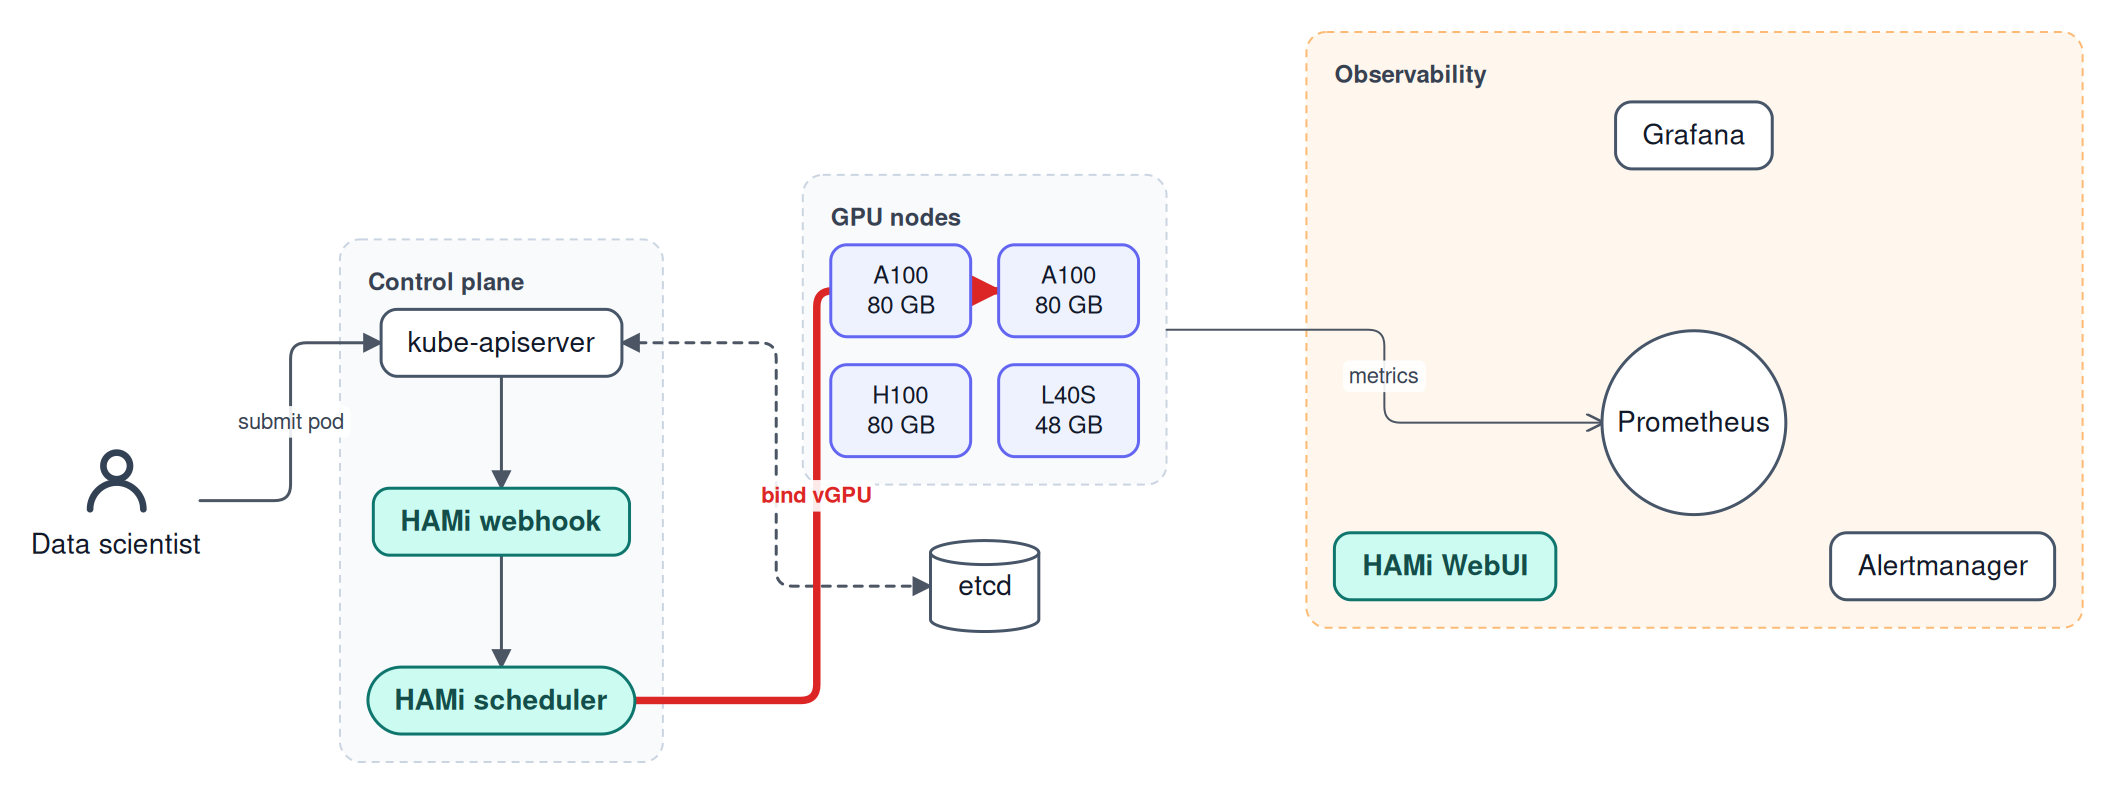
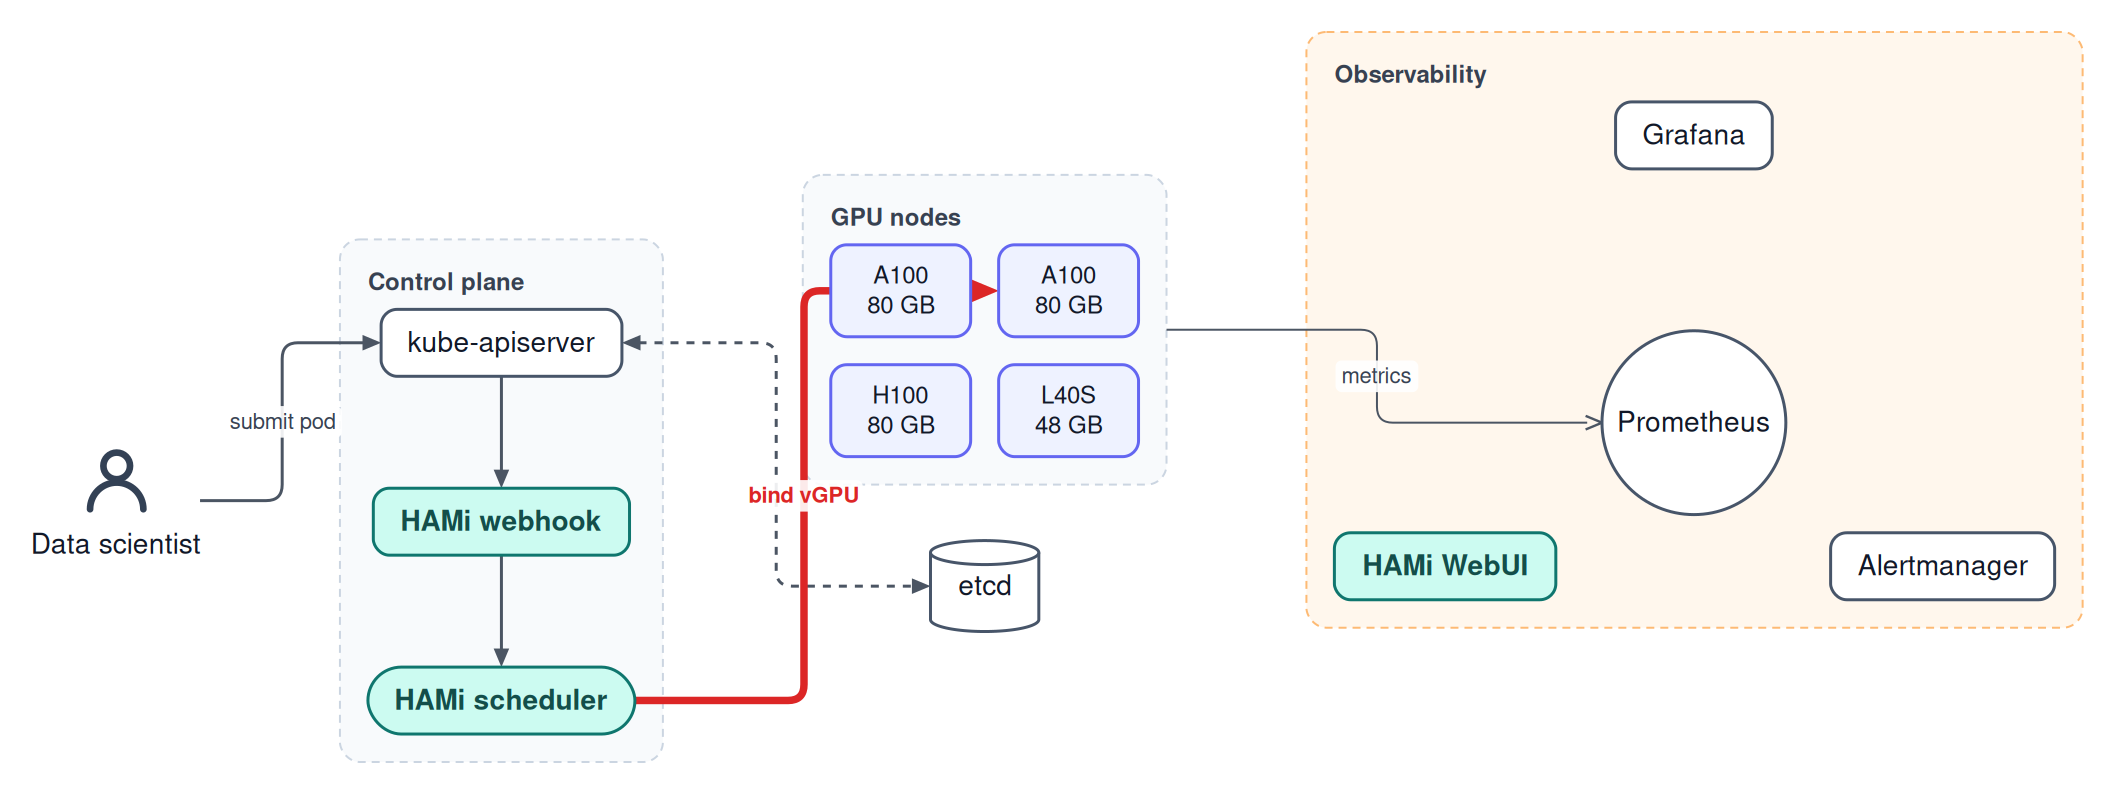
feat(edge): draw arrowheads as geometry with head-size

diff --git a/src/nodal/svg.py b/src/nodal/svg.py
@@ -193,26 +193,73 @@ class SvgRenderer:
         if "arrow" in st and "arrow" not in e.attrs and e.arrow == "end":
             arrow = st["arrow"]
         head = st.get("head", "triangle")
-        # shorten line under heads so the stroke doesn't poke through
-        s = max(1.0, 0.6 + width * 0.35)
         pts = list(pts)
+        tip_end, tip_start = pts[-1], pts[0]
+        # head length: explicit CSS/attr `head-size`, else grows gently with width (capped)
+        hl = px(st.get("head-size"), min(18.0, 6.0 + width * 2.2))
+        free = route == "straight" or flow_dir(lca(self.doc.items[e.src], self.doc.items[e.dst],
+                                                   self.doc.root)) == "auto"
+
+        def end_dir(tip, prev):
+            if free:
+                dx, dy = tip[0] - prev[0], tip[1] - prev[1]
+            elif axis == "v":
+                dx, dy = 0.0, tip[1] - prev[1]
+            else:
+                dx, dy = tip[0] - prev[0], 0.0
+            l = math.hypot(dx, dy) or 1.0
+            return dx / l, dy / l
+
+        heads = []
         if arrow in ("end", "both"):
-            pts[-1] = self._pull(pts[-1], pts[-2], 0)
+            d_end = end_dir(tip_end, pts[-2])
+            heads.append((tip_end, d_end))
+            # stop the stroke at the head's base so nothing pokes through the tip
+            pts[-1] = (tip_end[0] - d_end[0] * hl * 0.9, tip_end[1] - d_end[1] * hl * 0.9)
+        if arrow in ("start", "both"):
+            d_st = end_dir(tip_start, pts[1])
+            heads.append((tip_start, d_st))
+            pts[0] = (tip_start[0] - d_st[0] * hl * 0.9, tip_start[1] - d_st[1] * hl * 0.9)
         stub = px(st["stub"]) if "stub" in st else None
-        attrs = [f'd="{self.path_d(pts, axis, route, px(st.get("radius"), 12 if route == "bend" else 6), stub)}"', 'fill="none"', f'stroke="{color}"',
-                 f'stroke-width="{width:g}"', 'stroke-linecap="round"', 'stroke-linejoin="round"']
+        if stub is not None and heads:
+            stub += hl  # keep the bend clear of the head
+        radius = px(st.get("radius"), 12 if route == "bend" else 6)
+        cap = "butt" if heads else "round"
+        attrs = [f'd="{self.path_d(pts, axis, route, radius, stub)}"', 'fill="none"', f'stroke="{color}"',
+                 f'stroke-width="{width:g}"', f'stroke-linecap="{cap}"', 'stroke-linejoin="round"']
         if dash:
             attrs.append(f'stroke-dasharray="{dash}"')
-        if arrow in ("end", "both"):
-            attrs.append(f'marker-end="url(#{self.marker(head, color, width, False)})"')
-        if arrow in ("start", "both"):
-            attrs.append(f'marker-start="url(#{self.marker(head, color, width, True)})"')
-        _ = s
         cls = " ".join(["nodal-edge"] + e.classes)
         self.out.append(f'<g id="{e.id}" class="{cls}"><path {" ".join(attrs)}/>')
+        for tip, dvec in heads:
+            self.out.append(self.head_shape(head, tip, dvec, hl, color, width))
         if e.label:
             self.edge_label(e, pts)
         self.out.append("</g>")
+
+    @staticmethod
+    def head_shape(kind, tip, d, hl, color, width):
+        """Arrowhead as plain geometry: tip sits exactly on the target outline."""
+        tx, ty = tip
+        ux, uy = d
+        nx, ny = -uy, ux
+        hw = max(hl * 0.42, width * 1.2)
+
+        def P(a, b):  # a along -d from tip, b along normal
+            return f"{tx - ux * a + nx * b:.1f},{ty - uy * a + ny * b:.1f}"
+        if kind == "open":
+            return (f'<polyline class="nodal-head" points="{P(hl, hw)} {P(0, 0)} {P(hl, -hw)}" fill="none" '
+                    f'stroke="{color}" stroke-width="{max(1.2, width * 0.8):g}" stroke-linejoin="miter"/>')
+        if kind == "diamond":
+            return (f'<polygon class="nodal-head" points="{P(0, 0)} {P(hl / 2, hw)} {P(hl, 0)} {P(hl / 2, -hw)}" '
+                    f'fill="{color}"/>')
+        if kind == "dot":
+            r = hl / 2.2
+            return f'<circle class="nodal-head" cx="{tx - ux * r:.1f}" cy="{ty - uy * r:.1f}" r="{r:.1f}" fill="{color}"/>'
+        if kind == "bar":
+            return (f'<line class="nodal-head" x1="{tx + nx * hw:.1f}" y1="{ty + ny * hw:.1f}" '
+                    f'x2="{tx - nx * hw:.1f}" y2="{ty - ny * hw:.1f}" stroke="{color}" stroke-width="{max(2, width):g}"/>')
+        return f'<polygon class="nodal-head" points="{P(0, 0)} {P(hl, hw)} {P(hl, -hw)}" fill="{color}"/>'
 
     @staticmethod
     def _pull(p, toward, dist):

diff --git a/src/nodal/style.py b/src/nodal/style.py
@@ -162,14 +162,14 @@ def apply_styles(doc: Document) -> None:
         st.update(sheet.compute(e, [a for a in anc if a is not None]))
         if "edge-width" in ge:
             st["stroke-width"] = ge["edge-width"]
-        for k in ("arrow", "head", "route", "radius", "stub"):
+        for k in ("arrow", "head", "route", "radius", "stub", "head-size"):
             if k in ge:
                 st[k] = ge[k]
         for k, v in e.attrs.items():
             if k == "width":
                 st["stroke-width"] = v
             elif k in ("stroke", "color", "arrow", "head", "route", "stroke-dasharray", "font-size",
-                       "radius", "stub"):
+                       "radius", "stub", "head-size"):
                 st[k] = v
         e.style = sheet.resolve_vars(st)
     _ = root_inherit

diff --git a/docs/SPEC.md b/docs/SPEC.md
@@ -60,6 +60,9 @@ Per-edge attributes override arrow defaults:
 - `width=3` — stroke width in px
 - `arrow=none|end|start|both` — overrides what the token says
 - `head=triangle|open|diamond|dot|bar` — arrowhead shape
+- `head-size=N` — arrowhead length in px (default grows with width: 6 + 2.2 x width, max 18).
+  Heads are drawn as geometry, not SVG markers: the tip sits exactly on the target
+  outline, the stroke stops at the head's base, and the head is aligned with the flow axis.
 - `route=straight|ortho|curve|bend` — routing for this edge
   - `curve`: full S-shaped bezier.
   - `bend`: straight in the middle, rounded only at the ends. The edge leaves and enters
